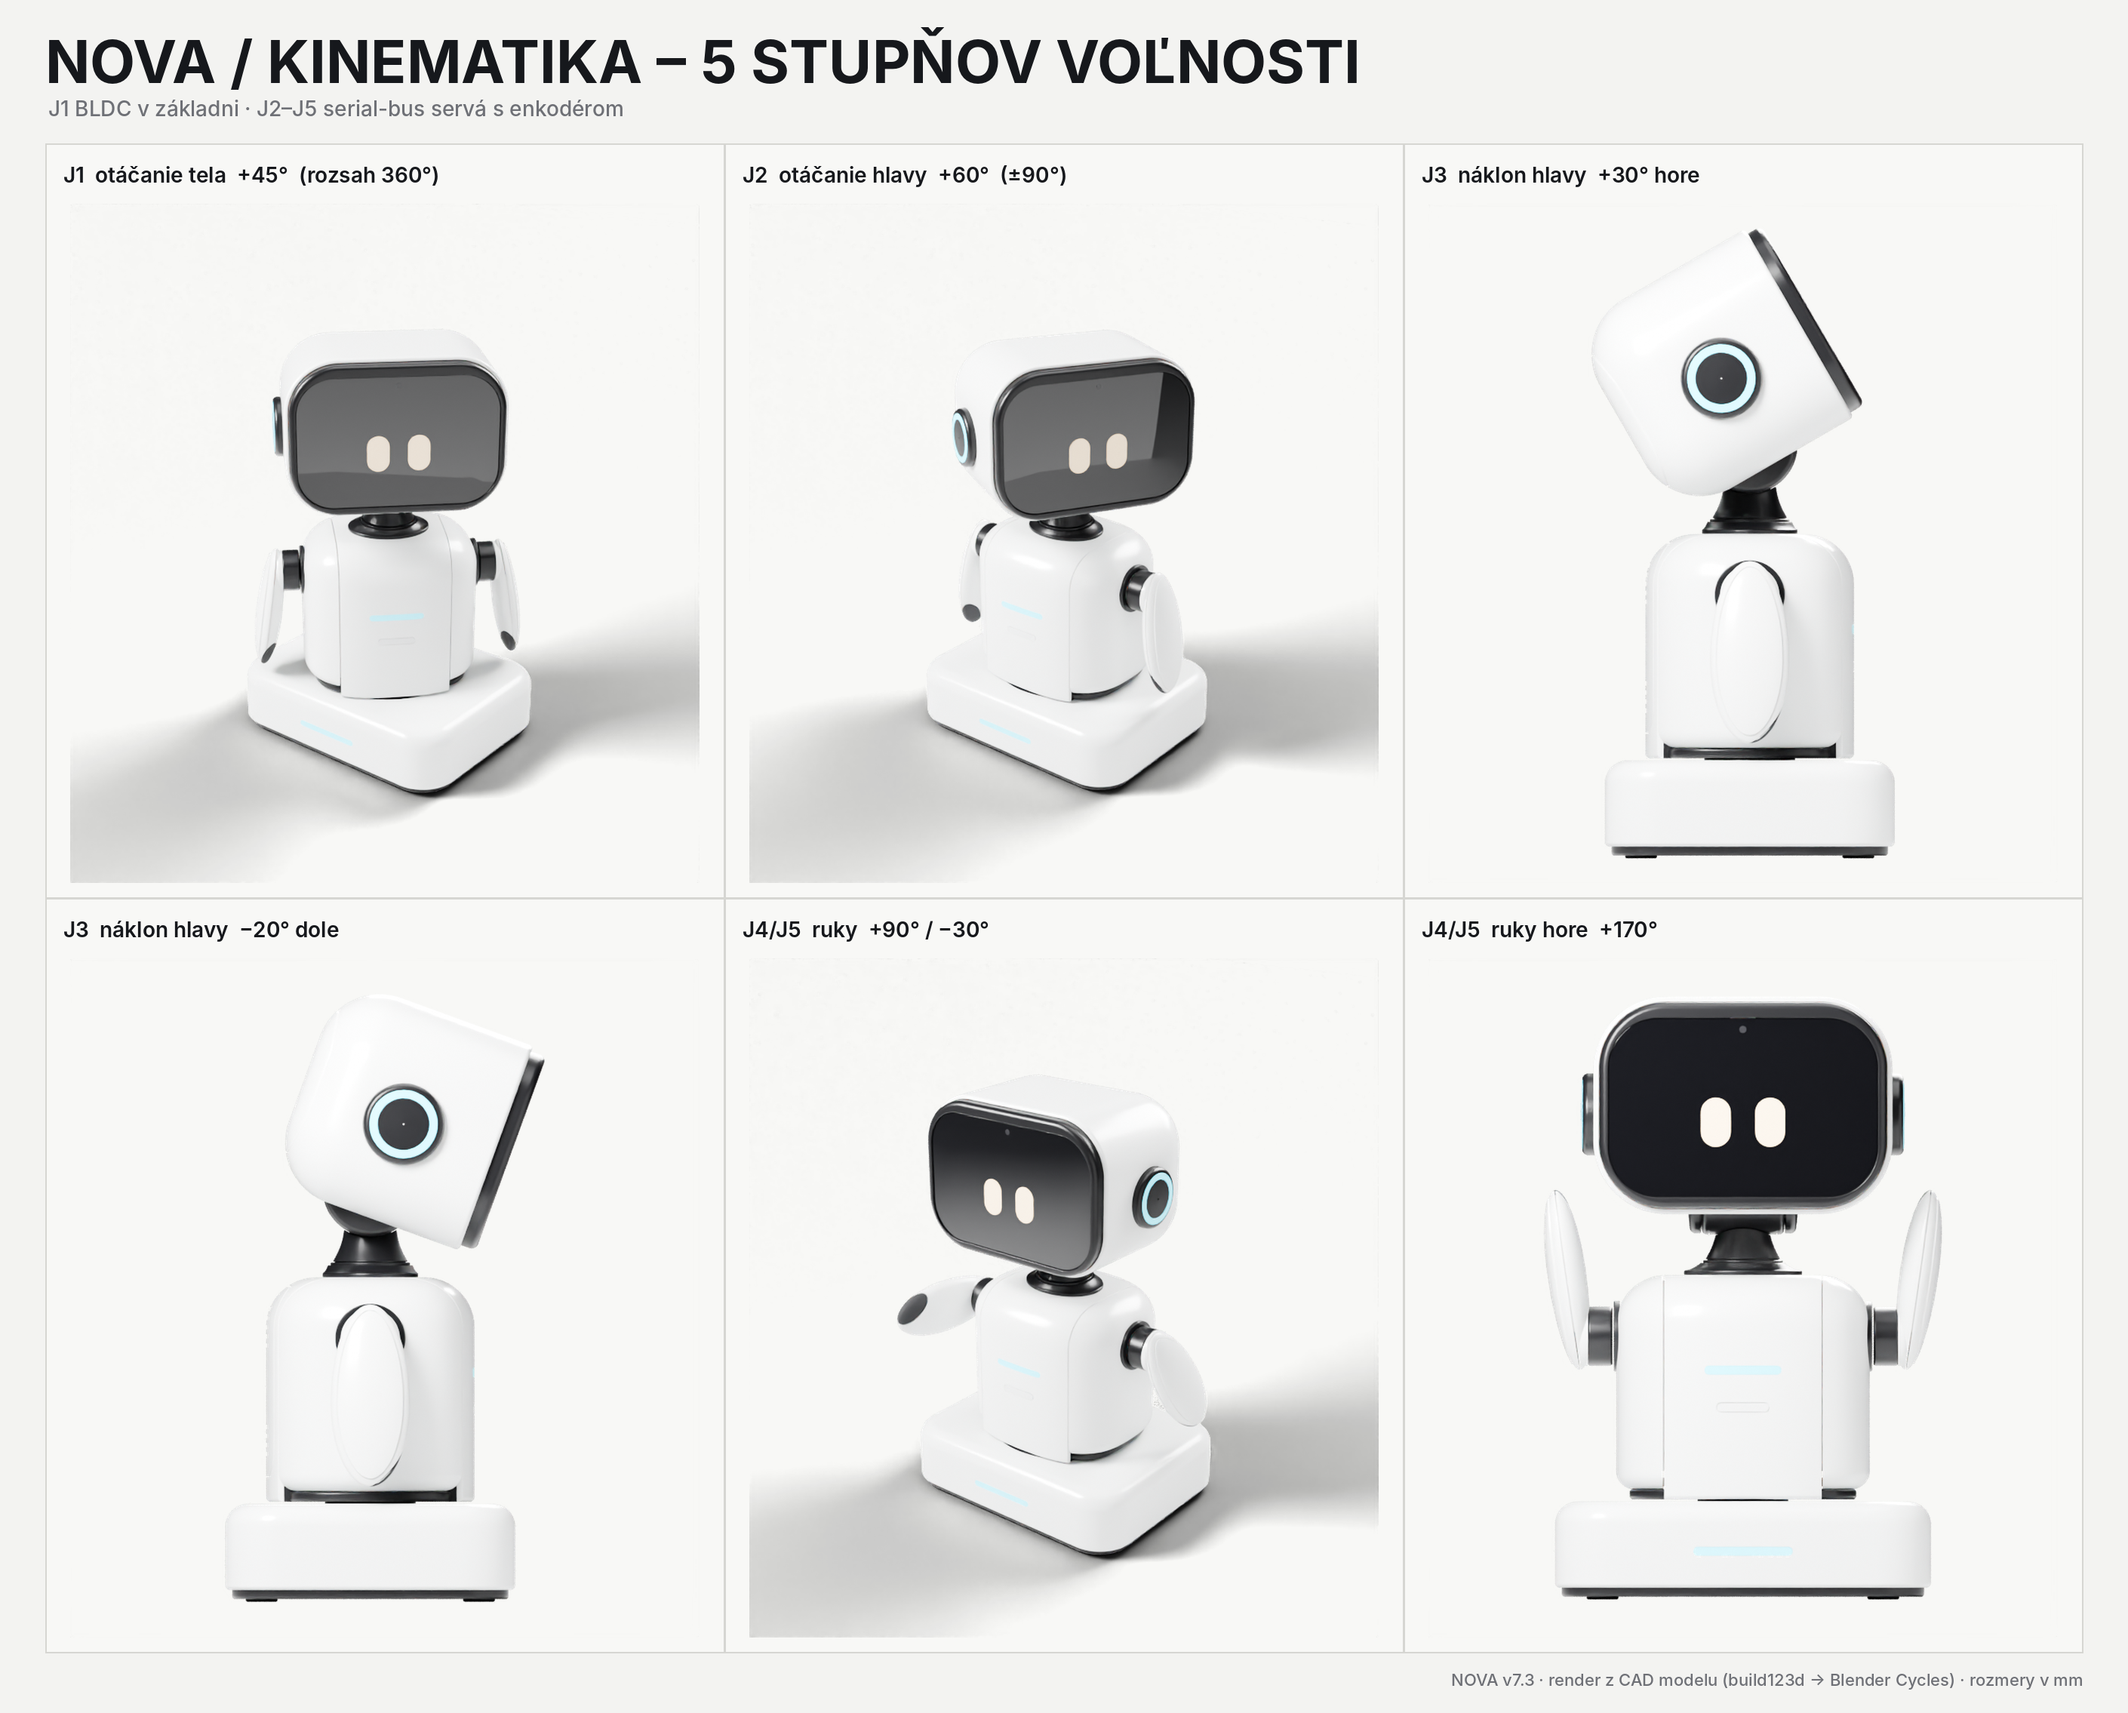
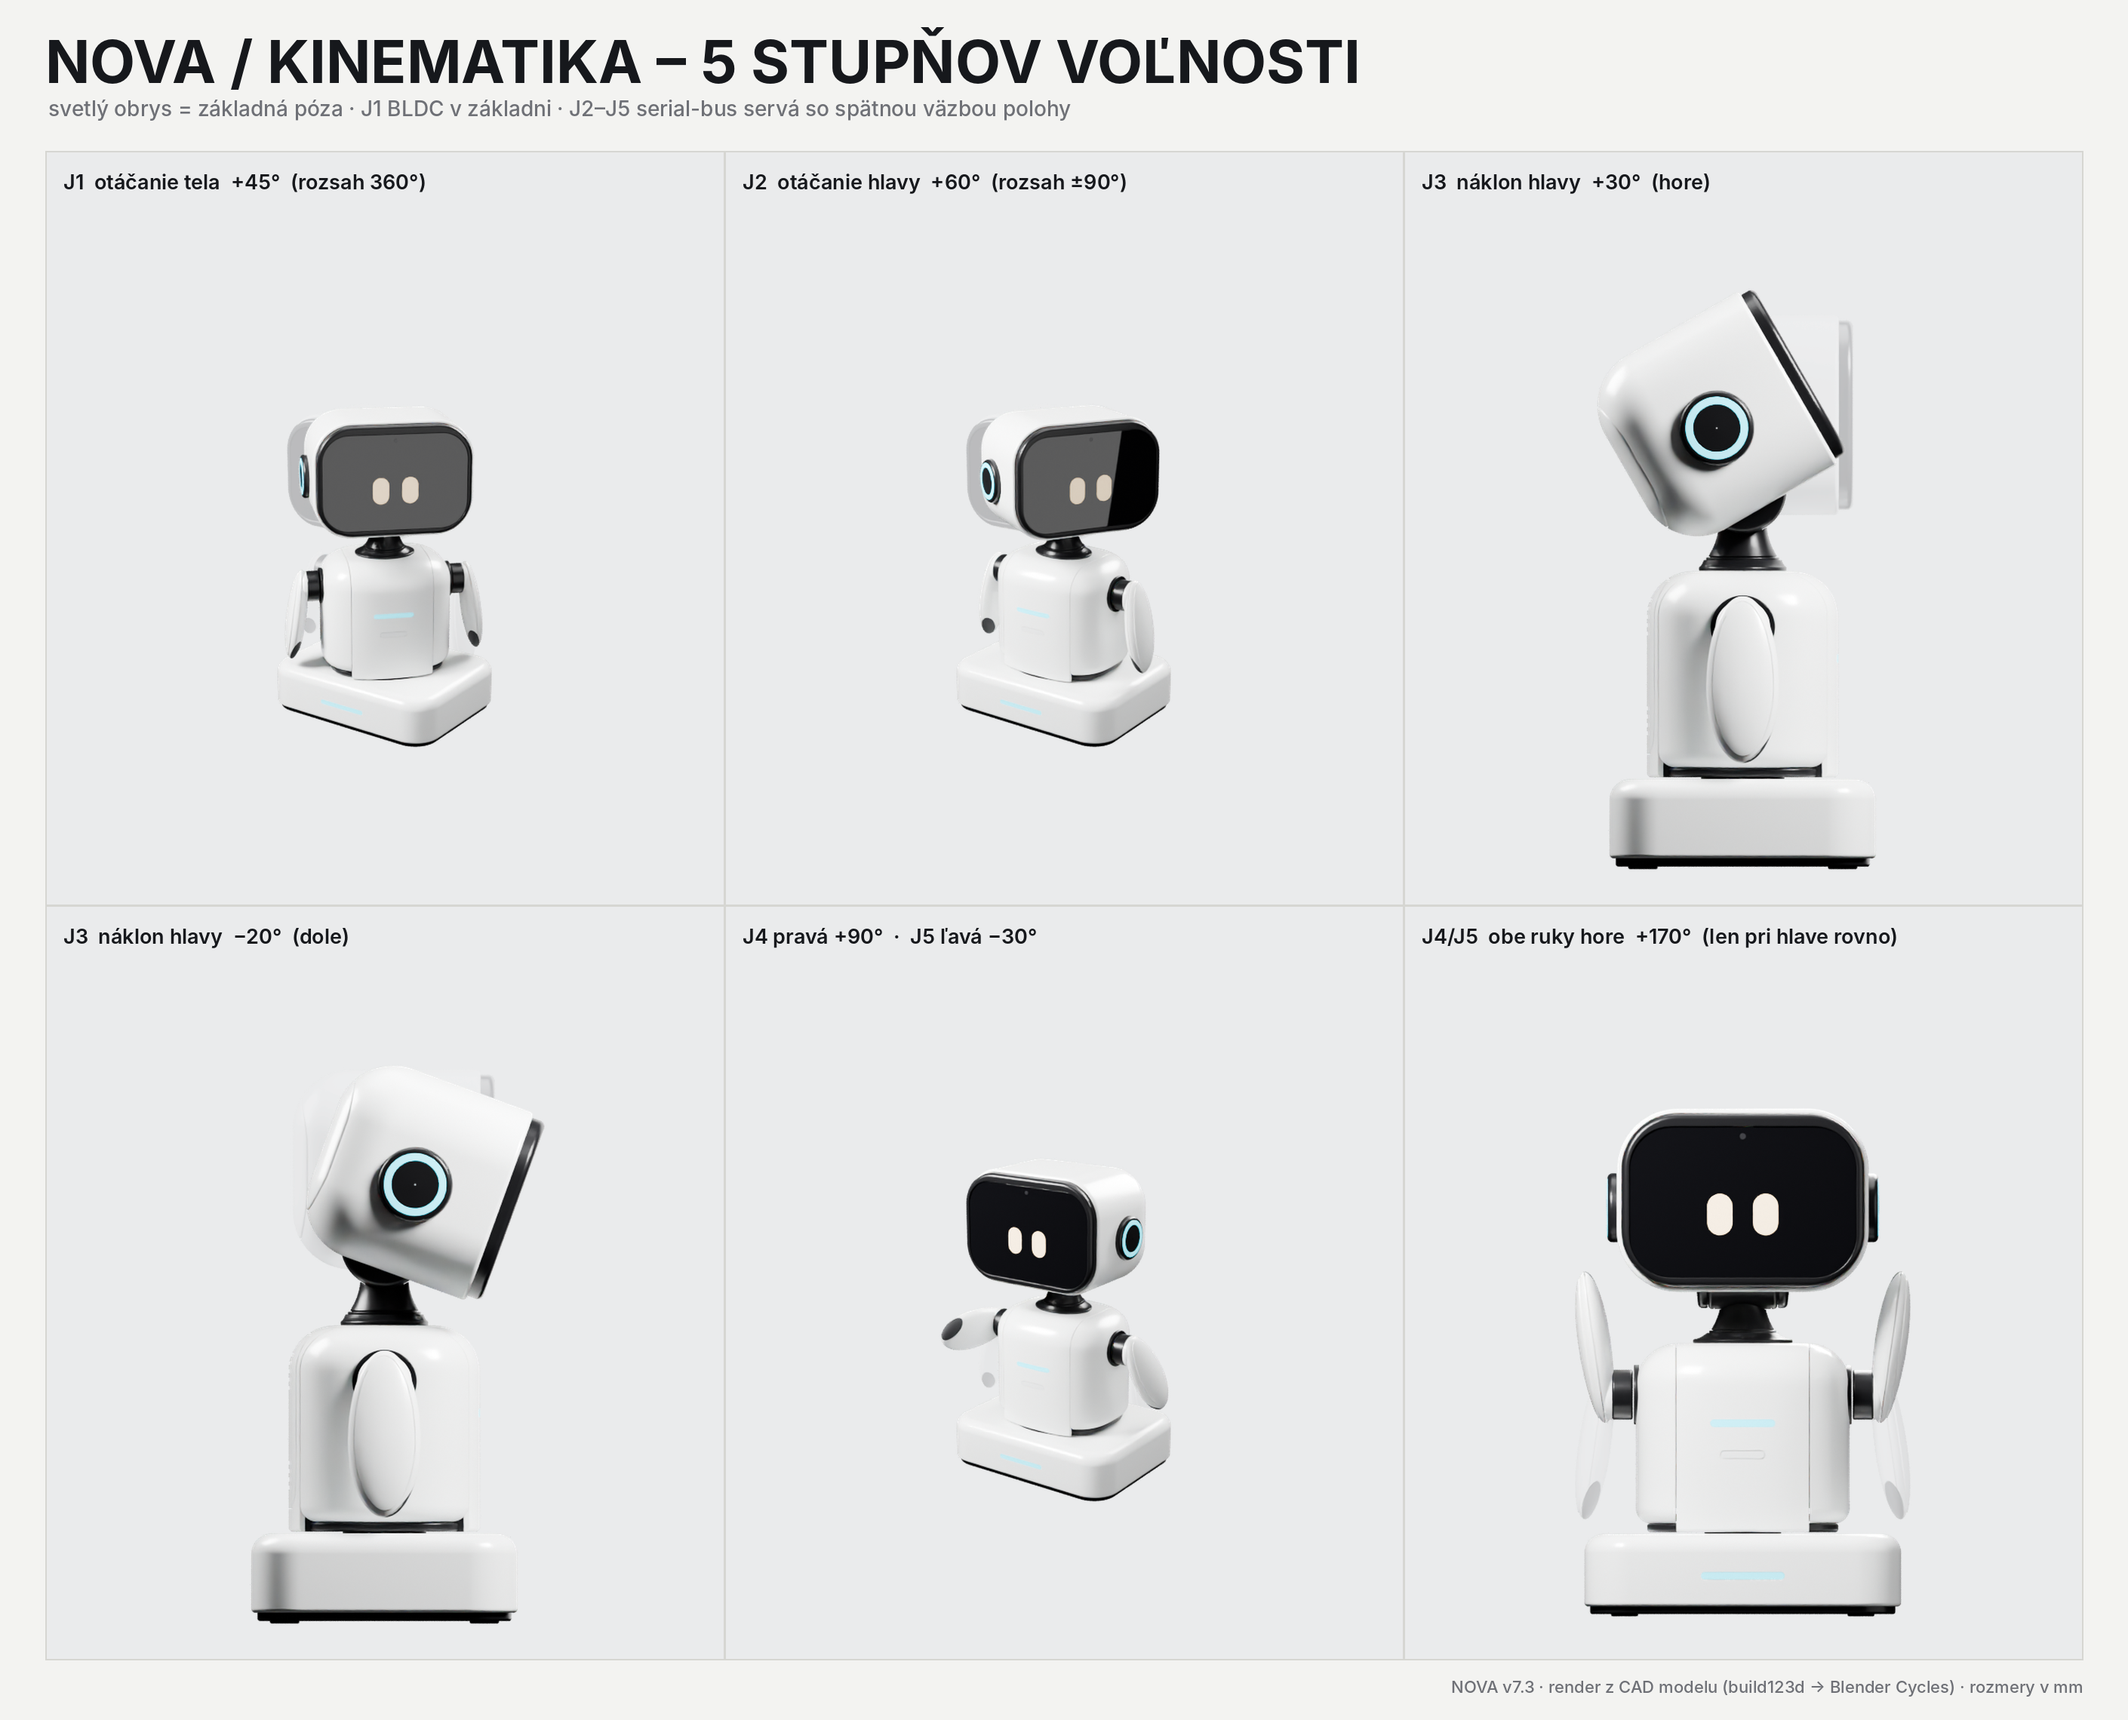
Fix portrait ortho scale, ID colour decoding, matrix scale, hero crop, LED colour
Claude-Session: https://claude.ai/code/session_01N8NysgmBVvUJuw9UGwdpKH

diff --git a/nova/render/render.py b/nova/render/render.py
@@ -525,6 +525,13 @@ def cam_axes(d, up):
     return fwd, right, true_up
 
 
+def ortho_need(w_extent, h_extent, aspect):
+    """Blender's ortho_scale spans the LARGER image dimension (sensor fit AUTO)."""
+    if aspect >= 1.0:
+        return max(w_extent, h_extent * aspect)
+    return max(h_extent, w_extent / aspect)
+
+
 def make_shadow_catcher(z):
     bpy.ops.mesh.primitive_plane_add(size=4, location=(0, 0, z))
     pl = bpy.context.object
@@ -539,7 +546,12 @@ def make_shadow_catcher(z):
 
 def id_color(i):
     """8-bit sRGB colour for part index i (1-based), unique for i < 1000."""
-    return (20 + (i % 10) * 23, 20 + ((i // 10) % 10) * 23, 20 + ((i // 100) % 10) * 23)
+    return (40 + (i % 10) * 21, 40 + ((i // 10) % 10) * 21, 40 + ((i // 100) % 10) * 21)
+
+
+def srgb_to_linear(v):
+    c = v / 255.0
+    return c / 12.92 if c <= 0.04045 else ((c + 0.055) / 1.055) ** 2.4
 
 
 def render_id_pass(sc, objs, path):
@@ -567,7 +579,7 @@ def render_id_pass(sc, objs, path):
         nt = m.node_tree
         nt.nodes.clear()
         em = nt.nodes.new("ShaderNodeEmission")
-        lin = [((v / 255.0) ** 2.2) for v in c]
+        lin = [srgb_to_linear(v) for v in c]
         em.inputs["Color"].default_value = (*lin, 1)
         em.inputs["Strength"].default_value = 1.0
         outn = nt.nodes.new("ShaderNodeOutputMaterial")
@@ -667,7 +679,7 @@ def run(job):
             d, up = VIEW_DIRS[v]
             fwd, right, tup = cam_axes(d, up)
             r0, r1, u0, u1 = projected_extent(objs, right, tup)
-            need = max(need, (r1 - r0), (u1 - u0) * aspect)
+            need = max(need, ortho_need(r1 - r0, u1 - u0, aspect))
         shared = need * (1 + 2 * margin)
 
     meta = {}
@@ -698,7 +710,7 @@ def run(job):
                 if shared:
                     cam_data.ortho_scale = shared
                 else:
-                    cam_data.ortho_scale = max(r1 - r0, (u1 - u0) * aspect) * (1 + 2 * margin)
+                    cam_data.ortho_scale = ortho_need(r1 - r0, u1 - u0, aspect) * (1 + 2 * margin)
                 loc = tgt - fwd * (radius * 6 + 0.5)
                 look_at(cam, loc, tgt, tup)
                 if job.get("cam_lights", True):
@@ -726,7 +738,7 @@ def run(job):
         meta[name] = dict(type=cam_data.type, ortho_scale_mm=cam_data.ortho_scale / MM,
                           lens=cam_data.lens, sensor=cam_data.sensor_width,
                           matrix_world=[list(r) for r in cam.matrix_world], res=res,
-                          mm_per_px=(cam_data.ortho_scale / MM) / res[0] if cam_data.type == "ORTHO" else None,
+                          mm_per_px=(cam_data.ortho_scale / MM) / max(res) if cam_data.type == "ORTHO" else None,
                           id_map=id_map)
         print(f"rendered {name} ({time.time() - t0:.1f}s)")
     if job.get("write_meta", True):

diff --git a/nova/render/make_sheets.py b/nova/render/make_sheets.py
@@ -131,9 +131,20 @@ def anchors(rd, view, min_px=40):
         return {}
     a = np.array(Image.open(p).convert("RGBA")).astype(int)
     rgb, al = a[..., :3], a[..., 3]
+    keys = list(idm.keys())
+    cols = np.array([idm[k] for k in keys])                       # (K,3)
+    flat = rgb.reshape(-1, 3)
+    # nearest id colour per pixel (robust to tone-mapping rounding), reject far matches / background
+    best = np.full(flat.shape[0], -1)
+    bestd = np.full(flat.shape[0], 1e9)
+    for j, c in enumerate(cols):
+        dd = np.abs(flat - c).sum(-1)
+        better = dd < bestd
+        best[better], bestd[better] = j, dd[better]
+    lab = np.where((bestd <= 9) & (al.reshape(-1) > 200), best, -1).reshape(rgb.shape[:2])
     out = {}
-    for pid, c in idm.items():
-        msk = (np.abs(rgb - np.array(c)).sum(-1) <= 6) & (al > 200)
+    for j, pid in enumerate(keys):
+        msk = lab == j
         n = int(msk.sum())
         if n < min_px:
             continue
@@ -278,7 +289,8 @@ def sheet_matrix(name, title, rows, q, recs, subtitle=None):
     for _, pids, _ in rows:
         mn, mx = union_bbox(recs, pids)
         sizes.append([mx[i] - mn[i] for i in range(3)])
-    osc = max(max(s) for s in sizes) * 1.10
+    cr = q["cell_res"]
+    osc = max(max(s) for s in sizes) * 1.12 * max(cr) / min(cr)   # ortho_scale spans the larger image side
 
     def one(i_row):
         i, (label, pids, note) = i_row
@@ -306,7 +318,11 @@ def sheet_hero(q, recs):
                      views=[HERO_CAM, "iso_back", "iso_r"], margin=0.12, floor_z=spec.FLOOR_Z), "00_hero")
     W, H = 3000, 2000
     sh, d = new_sheet(W, H, "NOVA", f"stolový robot-spoločník · {spec.VERSION}")
-    paste_fit(sh, load(rd, "hero"), (40, 190, 1760, 1960))
+    hero = load(rd, "hero", fade=None)
+    bx = alpha_bbox(hero, 220)
+    pw, ph = int(0.30 * (bx[2] - bx[0])), int(0.12 * (bx[3] - bx[1]))
+    hero = hero.crop((max(0, bx[0] - pw), max(0, bx[1] - ph), min(hero.width, bx[2] + pw), min(hero.height, bx[3] + ph)))
+    paste_fit(sh, radial_fade(hero, inner=0.70), (40, 190, 1760, 1960))
     paste_fit(sh, load(rd, "iso_back"), (1790, 1250, 2380, 1930))
     paste_fit(sh, load(rd, "iso_r"), (2400, 1250, 2980, 1930))
     x0, y = 1820, 230

diff --git a/nova/spec.py b/nova/spec.py
@@ -101,7 +101,7 @@ MATERIALS = {
     "black_gloss":dict(desc="čierny lesklý plast",                   rgb=(0.02, 0.02, 0.022), rough=0.15),
     "rubber":     dict(desc="čierne TPU 85A / guma",                 rgb=(0.022, 0.022, 0.024), rough=0.75, spec=0.3),
     "glass":      dict(desc="tvrdené sklo 1.1 mm, čierna potlač",    rgb=(0.004, 0.004, 0.005), rough=0.015),
-    "cyan_led":   dict(desc="svetlovod PMMA opál – tyrkysová LED",   rgb=(0.05, 0.80, 1.0), emit=3.0),
+    "cyan_led":   dict(desc="svetlovod PMMA opál – tyrkysová LED",   rgb=(0.0, 0.62, 1.0), emit=1.8),
     "eye":        dict(desc="obsah displeja – oči (teplá biela)",    rgb=(1.0, 0.76, 0.46), emit=1.3),
     "frost":      dict(desc="matný svetlosivý PMMA (okienko senzora)", rgb=(0.80, 0.81, 0.82), rough=0.6),
     "grey":       dict(desc="sivý technický plast (vnútorná kostra)", rgb=(0.35, 0.36, 0.38), rough=0.5),
